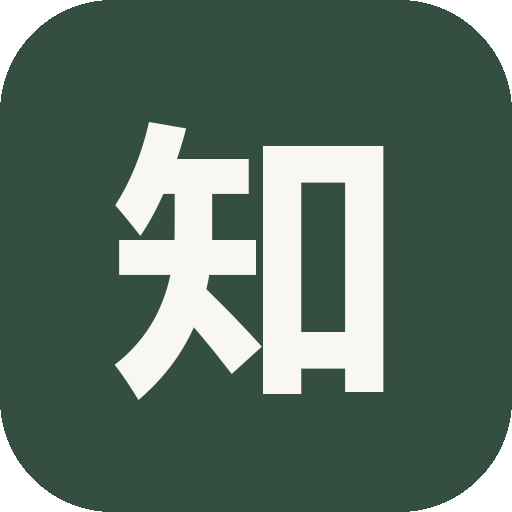
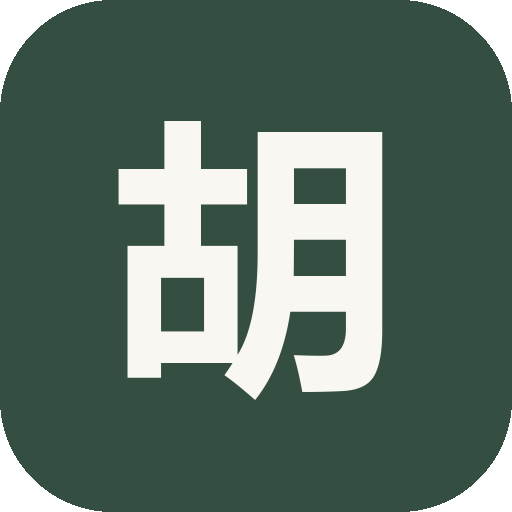
Add files via upload

Changed region(s): [[0.2188, 0.2188, 0.75, 0.7812]]

diff --git a/index.html b/index.html
@@ -9,8 +9,8 @@
 <link rel="apple-touch-icon" href="icon-192.png">
 <meta name="apple-mobile-web-app-capable" content="yes">
 <meta name="apple-mobile-web-app-status-bar-style" content="default">
-<meta name="apple-mobile-web-app-title" content="知日">
-<title>知日 · 个人工作台</title>
+<meta name="apple-mobile-web-app-title" content="胡">
+<title>胡 · 个人工作台</title>
 <style>
 /* ============ 设计系统 ============ */
 :root{
@@ -509,8 +509,8 @@ input.in::placeholder,textarea.in::placeholder{color:var(--text-faint)}
 .hbs-txt{display:flex;flex-direction:column;gap:2px;min-width:0}
 .hbs-n{font-size:15.5px;font-weight:600;font-family:var(--font-serif);white-space:nowrap;overflow:hidden;text-overflow:ellipsis}
 .hbs-s{font-size:11.5px;color:var(--text-dim);white-space:nowrap;overflow:hidden;text-overflow:ellipsis}
-.hb-circle{width:38px;height:38px;min-width:38px;border-radius:50%;border:1.5px solid var(--line);background:var(--card);display:flex;align-items:center;justify-content:center;color:transparent;transition:all .15s}
-.hb-circle svg{width:18px;height:18px}
+.hb-circle{width:30px;height:30px;min-width:30px;border-radius:50%;border:1.5px solid var(--line);background:var(--card);display:flex;align-items:center;justify-content:center;color:transparent;transition:all .15s}
+.hb-circle svg{width:14px;height:14px}
 .hb-circle.done{background:var(--green);border-color:var(--green);color:var(--on-green)}
 .hcal{background:var(--card);border:1px solid var(--line);border-radius:var(--radius);box-shadow:var(--shadow);padding:12px;margin-bottom:12px}
 .hcal-head{display:flex;align-items:center;justify-content:space-between;margin-bottom:8px}
@@ -755,7 +755,7 @@ async function loadExternalFeed() {
       }
       changed = true;
     }
-    if (changed) { saveData(); if (renderers[state.tab]) renderers[state.tab](); }
+    if (changed) { if (renderers[state.tab]) renderers[state.tab](); }  // 只更新内存+渲染，不写存储（外部内容不持久化）
   } catch (_) { /* 拉取失败则保留内置快照 */ }
 }
 
@@ -996,7 +996,7 @@ function loadData() {
     const raw = localStorage.getItem(STORAGE_KEY);
     if (raw) {
       const d = JSON.parse(raw);
-      if (d && d.todos && d.transactions) return ensureDefaults(d); // 直接返回，不做任何清理
+      if (d && d.todos && d.transactions) return ensureContent(ensureDefaults(d)); // 直接返回，不做任何清理
     }
   } catch (_) { /* 损坏则重建 */ }
   const fresh = buildMock();
@@ -1059,8 +1059,21 @@ function idbDel(key) {
 /* ---------- 数据层（第二阶段：IndexedDB 主存储 + localStorage 双写副本） ---------- */
 function saveData(d) {
   const obj = d || data;
-  try { localStorage.setItem(STORAGE_KEY, JSON.stringify(obj)); } catch (_) {}
-  try { idbSet(IDB_KEY, obj).catch(() => {}); } catch (_) {}
+  // 新闻/学习是外部内容（云端拉取），不写入本地存储——避免大数组每次全量序列化导致卡顿/超限
+  const slim = {
+    ...obj,
+    news: { fetchedAt: (obj.news && obj.news.fetchedAt) || '', fetchedDate: (obj.news && obj.news.fetchedDate) || '', items: [] },
+    study: [],
+  };
+  try { localStorage.setItem(STORAGE_KEY, JSON.stringify(slim)); } catch (_) {}
+  try { idbSet(IDB_KEY, slim).catch(() => {}); } catch (_) {}
+}
+
+/* 本地存储缺失新闻/学习时，用内置快照兜底（随后 loadExternalFeed 拉云端最新） */
+function ensureContent(d) {
+  if (!d.news || !d.news.items || !d.news.items.length) d.news = buildMock().news;
+  if (!d.study || !d.study.length) d.study = buildMock().study;
+  return d;
 }
 
 /* 启动时异步升级：IndexedDB 优先，localStorage 迁移/副本 */
@@ -1068,10 +1081,10 @@ async function upgradeStorage() {
   try {
     const idbData = await idbGet(IDB_KEY);
     if (idbData && idbData.todos && idbData.transactions) {
-      data = ensureDefaults(idbData); // IndexedDB 为主（旧数据自动补齐新字段）
+      data = ensureContent(ensureDefaults(idbData)); // IndexedDB 为主（旧数据自动补齐新字段）
       try { localStorage.setItem(STORAGE_KEY, JSON.stringify(data)); } catch (_) {}
     } else {
-      await idbSet(IDB_KEY, ensureDefaults(data)); // 首次：把当前数据迁入 IndexedDB
+      await idbSet(IDB_KEY, ensureContent(ensureDefaults(data))); // 首次：把当前数据迁入 IndexedDB
     }
   } catch (_) { /* IndexedDB 不可用时继续用 localStorage */ }
   if (renderers[state.tab]) renderers[state.tab]();
@@ -1446,7 +1459,7 @@ function exportBackup() {
   const blob = new Blob([JSON.stringify(data, null, 1)], { type: 'application/json' });
   const a = document.createElement('a');
   a.href = URL.createObjectURL(blob);
-  a.download = '知日备份_' + todayKey() + '.json';
+  a.download = '胡备份_' + todayKey() + '.json';
   document.body.appendChild(a); a.click();
   setTimeout(() => { URL.revokeObjectURL(a.href); a.remove(); }, 500);
   try { localStorage.setItem('zhiri_last_backup', todayKey()); } catch (_) {}
@@ -2378,10 +2391,22 @@ function startFocusTick() {
  * 初始化与全局事件
  * ============================================================ */
 function init() {
-  // 头部日期
-  const now = new Date();
-  document.getElementById('hdDate').textContent =
-    `${now.getFullYear()}年${now.getMonth() + 1}月${now.getDate()}日 · ${fmtW(now)}`;
+  // 头部日期（实时跟随：跨天自动更新，不依赖页面刷新）
+  const renderHeaderDate = () => {
+    const now = new Date();
+    document.getElementById('hdDate').textContent =
+      `${now.getFullYear()}年${now.getMonth() + 1}月${now.getDate()}日 · ${fmtW(now)}`;
+  };
+  renderHeaderDate();
+  let _lastDateKey = todayKey();
+  setInterval(() => {
+    const k = todayKey();
+    if (k !== _lastDateKey) {
+      _lastDateKey = k;
+      renderHeaderDate();
+      if (renderers[state.tab]) renderers[state.tab]();   // 跨天刷新当前页（日期/周几联动）
+    }
+  }, 30000);
 
   // 主题
   const savedTheme = (data.settings && data.settings.theme) || 'light';
@@ -2418,8 +2443,11 @@ function init() {
     if (!document.hidden) renderFocus();
   });
 
-  // 每日内容：拉取云端最新新闻/学习（失败自动保留内置快照）
+  // 每日内容：拉取云端最新新闻/学习（失败自动保留内置快照）；每 30 分钟自动刷新
   loadExternalFeed();
+  setInterval(() => {
+    if (!document.hidden) loadExternalFeed();
+  }, 30 * 60 * 1000);
 
   // 第二阶段：IndexedDB 持久化接管（异步，完成后重渲染）
   upgradeStorage();

diff --git a/sw.js b/sw.js
@@ -1,5 +1,5 @@
 /* 知日 Service Worker — 离线可用 + 网络优先更新策略 */
-const CACHE = 'zhiri-v3';
+const CACHE = 'zhiri-v4';
 const PRECACHE = ['./', './index.html', './manifest.json', './icon-192.png', './icon-512.png'];
 
 self.addEventListener('install', e => {
